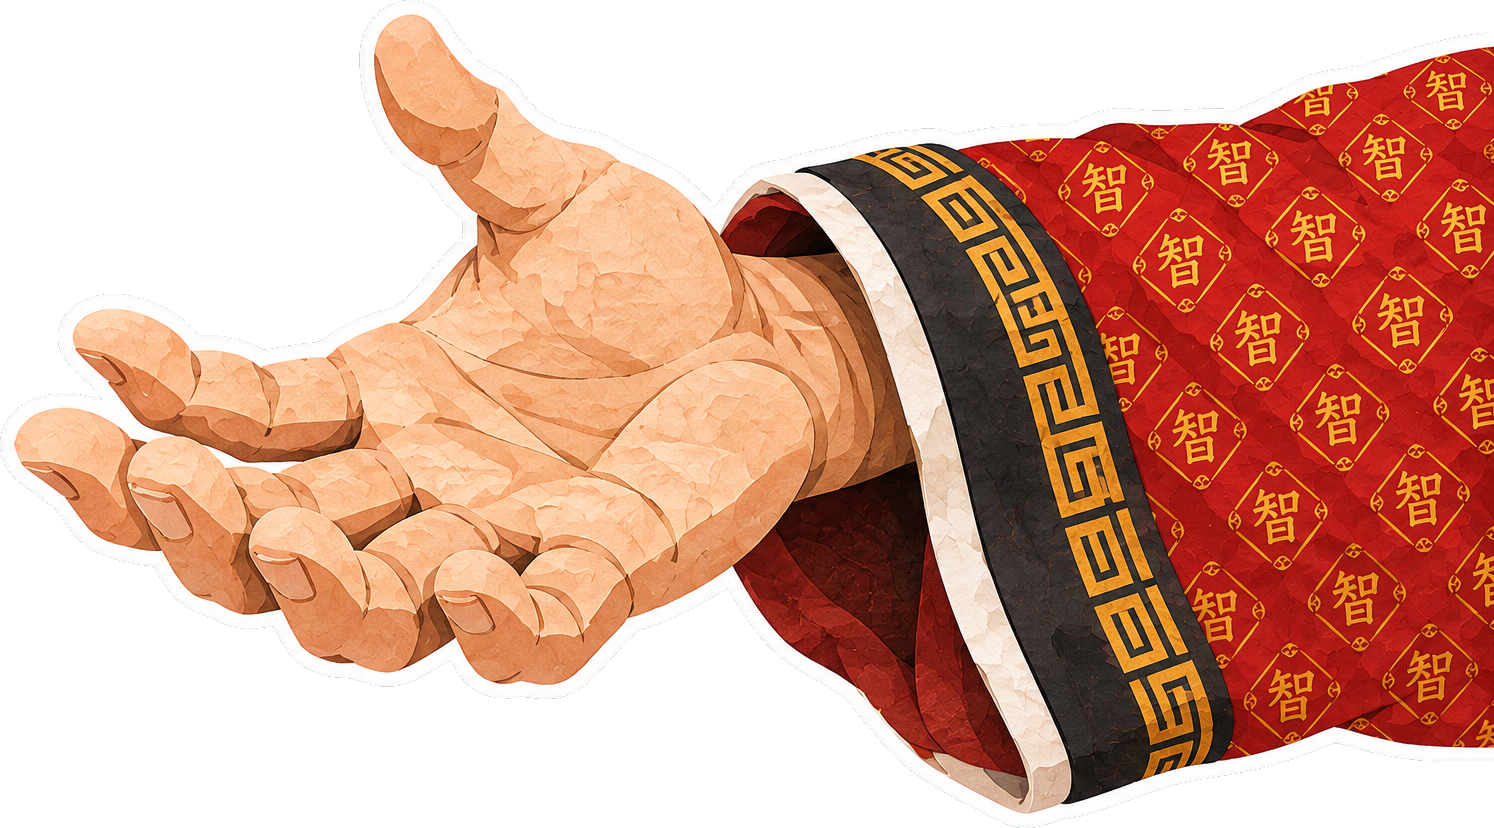
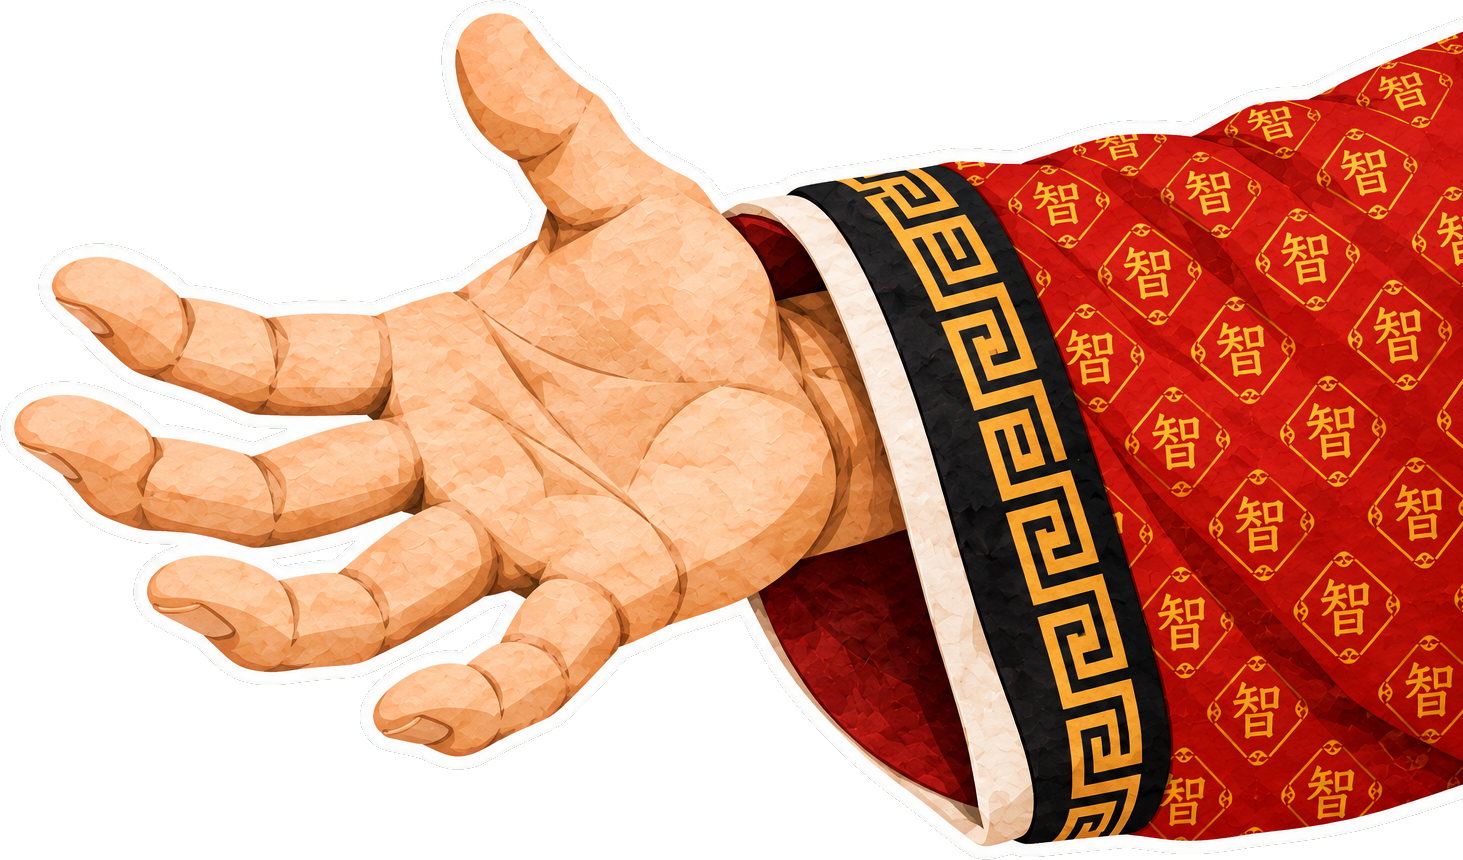
tj01 G assets (PITFALLS R13): brand-sleeve hand redrawn with five fingers; race track redrawn as one continuous loop with the checkered start line across the straight (blue car off track on the grass, driver fine); checked at full size

diff --git a/video/assets/codex_tj01/mk_G.py b/video/assets/codex_tj01/mk_G.py
@@ -212,7 +212,7 @@ P["hand_reach_b"] = hdr(
     "附图 2 是「智伯」的一只大手的旧版画法（手心向上摊开要东西；旧版袖子没有花纹，只参考手的画法、大小和五指的样子）。附图 3 是他的**定妆图**（名牌造型：红袍满印金色「智」字花纹、领口袖口墨黑边加金色回纹）——袖子照它。"
     "请画**一只智伯的大手和宽袖子**（道具，不带身体）：") + f"""
 {STYLE}
-**宽大的袖子，从画面右边伸进来**，伸向**画面左边**：袖子是**赭红色（#8e2b2b）满印金色的「智」字花押 logo**（圆角菱形方块里一个金色「智」字，整齐重复铺满，像奢侈品的满印花纹），**袖口是墨黑边加金色回纹**（黑边上不印 logo），袖口里露出一点白色内衬；袖口里伸出一只**大手**，**手心向上摊开**、**五指张开**（像在伸手要东西，手要画得大、五指清楚、手指不要畸形、不要多指），手背朝下、手心朝上。**只画袖子和手**（袖子从画面右边缘切入，右边是袖子的裁切，不画人的身体和脸），不拿东西。
+**宽大的袖子，从画面右边伸进来**，伸向**画面左边**：袖子是**赭红色（#8e2b2b）满印金色的「智」字花押 logo**（圆角菱形方块里一个金色「智」字，整齐重复铺满，像奢侈品的满印花纹），**袖口是墨黑边加金色回纹**（黑边上不印 logo），袖口里露出一点白色内衬；袖口里伸出一只**大手**，**手心向上摊开**（像在伸手向人要东西），手背朝下、手心朝上。**Exactly five fingers: one thumb and four fingers (index, middle, ring and little finger). 这只手必须正好五根手指：一根拇指加四根手指，数清楚，不能多一根也不能少一根，不要六指、不要四指。**画法：四根手指并排、自然微微弯曲、指尖朝向画面左边，每根手指之间留一条清楚的缝，**手指互相不重叠、不粘连**，粗短一点（Q 版大手）；拇指单独在手的一侧（画面上方）向外张开；手指不要畸形、不要多关节。**只画袖子和手**（袖子从画面右边缘切入，右边是袖子的裁切，不画人的身体和脸），不拿东西。
 **只允许出现「智」这一个字**（汉字，金色，印在袖子上），不许有别的字、字母、数字，不许出现任何真实品牌的标志。
 用你的图片生成工具画：{GREEN}；画布横版 3:2（例如 1536×1024）；「袖子加手」的宽度约 1400 像素、高度约 750 像素；手和袖子完整、外面一圈粗白纸边（袖子右边是切口，不用白边也行）。
 要求：画面里除了袖子上的「智」字，不要出现任何文字、字母或数字
@@ -304,10 +304,11 @@ REFS["bubble_river_city"] = [S, "props/bubble_nickname.png", "props/city_han.png
 P["bubble_race_track"] = hdr(
     "附图 2 是这个系列已经画好的一张想象泡泡里的画（画法、笔触、配色、纸纹都要照它）。请画这一张**横版的宽图**（整张铺满画面，**不是椭圆、没有白边、没有绿底**，像一幅完整的风景画，之后会裁成左右两段使用）：") + f"""
 画风照附图（扁平的手绘纸艺插画、看得见的纸张纤维纹理、每一件东西外面一圈白纸边；不要 3D、不要黏土或塑料质感、不要光滑渐变的立体阴影）。是一个想象泡泡里的画，气氛轻松，给幼儿园到小学的孩子看。
-画面：**一条纸艺赛车跑道**，从左到右展开（赛车都往**右**开）：灰色的跑道、红白相间的路肩、跑道两边是绿色的草地、远处淡淡的蓝天和山，暖色柔和的光线。
-- **左半边**：**起跑线**（黑白格子线横在跑道上）；**一辆纸做的红色高级赛车正冲出起跑线**（流线型、低矮、光亮的红色纸片、大大的车轮，车后面几道白色的速度线）；**车身侧面正中留一条空白的长条**（米白色、圆角，什么都不写，后面会写字）；**车里坐着一个戴头盔的司机，双手握着方向盘**（头盔是红色的，笑眯眯的，很稳）
-- **右半边**：跑道在这里**拐一个弯**，**弯道外面的草地上停着一辆蓝色的小赛车**：它**滑出了跑道、停在草地里**（车头歪着朝草地，**没有撞、没有翻、没有冒烟、没有起火**，只是停在草里，车上的人安然无事、尴尬地挠头也可以）；**车顶上方留出一块空位**（什么都不画，后面叠问号贴纸）；远处跑道尽头有**终点的黑白格子旗**
-- **不画真实品牌的标志、不画车牌、不画任何字母数字**
+**赛道的逻辑必须正确（最重要）**：这是**一整圈连续的环形赛道，全画面只有「一条」路**：一条灰色的路带，从画面左边缘进来，**在左半边是一段笔直的直道**，穿过整个左半边，到右半边**向远处慢慢弯出去**（弯道），消失在远处的山脚。**整张图里只有这一条路，没有任何岔路、丁字路口、十字路口、分叉、第二条路、立交桥、隧道**；路的两边是连续的红白相间路肩、外面是绿色草地。
+画面（赛车都往**右**开）：
+- **左半边（笔直的直道）**：**起跑线是一条黑白格子线，横着铺满整条直道的宽度（从左边路肩到右边路肩），和路的走向垂直**，线画在笔直的路面上；**一辆纸做的红色高级赛车刚刚冲出起跑线**（流线型、低矮、红色纸片、大大的车轮，车后面几道白色的速度线；车头朝右、车轮在路面上，车在路中间）；**车身侧面正中留一条空白的长条**（米白色、圆角，什么都不写，后面会写字）；**车里坐着一个戴红色头盔的司机，双手握着方向盘**，笑眯眯、很稳。**整张图一共只有两辆赛车（这一辆红车和右半边的一辆蓝车），不要画第三辆**
+- **右半边（弯道）**：路在这里向远处拐弯；**弯道外面的草地上停着一辆蓝色的小赛车**：它**滑出了弯道、停在草地里**（车头歪着朝草地，**没有撞、没有翻、没有冒烟、没有起火**，车上的人安然无事、尴尬地挠头）；**车顶上方留出一块空位**（什么都不画，后面叠问号贴纸）；天空里不要画东西
+- 天空、远山、几棵树、白云；**不画任何字、不画真实品牌的标志、不画车牌、不画任何字母数字**
 要求：画面里不要出现任何文字、字母或数字；用你的图片生成工具画：画布是很宽的横版（例如 1774×887，比例 2:1），整张画满。
 {save_line("bubble_race_track")}
 """
@@ -325,6 +326,11 @@ P["bubble_race_driver"] = hdr(
 {save_line("bubble_race_driver")}
 """
 REFS["bubble_race_driver"] = [S, "props/bubble_nickname.png"]
+
+
+for _n, _k in (("hand_reach_b", "2"), ("bubble_race_track", "2"), ("bubble_race_track", "3"), ("bubble_race_track", "4")):   # 候选（同提示词，挑更好的）
+    P[_n + _k] = P[_n].replace(f"{_n}.png", f"{_n}{_k}.png")
+    REFS[_n + _k] = REFS[_n]
 
 
 def abs_refs(n):

diff --git a/video/assets/codex_tj01/split_G.py b/video/assets/codex_tj01/split_G.py
@@ -152,13 +152,13 @@ NOTES = {
     "zhao_dig": ("赵家的人 `zhao_`", "右", "**夜里挖堤的赵家兵**（远景用）：青绿 #2f7d5b 头巾、青绿交领右衽短衣配黑边加白色小三角纹（和赵襄子同款）、深灰裤子、绑腿、草鞋，**全身没有红色、赭黄、黑皮甲**（不是智伯的兵）；弯腰、双手握长柄青铜镐举在身后右肩上方、正要往下挖；3/4；第 37 句；**挖堤用它，不用 folk_dig**（folk_dig 穿智家兵的衣服）"),
     "sold_spear": ("智伯的兵 `sold_`", "右", "智伯的兵（赭黄上衣、黑皮甲、红头巾），拿矛站着（矛竖着，不对人）；从 codex_tj01/pose_crowd.png 左上拆出；第 5 句（「兵马最多」：复制几份排成一排）"),
     "folk_dig": ("晋阳百姓 `folk_`", "右", "扛镐的人，**穿智家兵的衣服**（赭黄上衣、黑皮甲、红头巾），**挖堤不用它，用 zhao_dig**；从 codex_tj01/pose_crowd.png 右上拆出；原本是「赵家这边的人」的设想，颜色不对，只留作备用"),
-    "hand_reach_b": ("道具", "左", "G13：智伯的大手，名牌袖子（赭红底满印金色「智」字的宽袖、袖口墨黑边加金色回纹），从画面右边伸进来，手心向上摊开、五指张开（替掉非名牌的 hand_grab / hand_open）；只有袖子和手；第 14、21 句"),
+    "hand_reach_b": ("道具", "左", "G13：智伯的大手，名牌袖子（赭红底满印金色「智」字的宽袖、袖口墨黑边加金色回纹），从画面右边伸进来，手心向上摊开；**正好 5 根手指（1 拇指 + 4 指，R13 重画，逐根数过）**；只有袖子和手；第 14、21 句"),
     "wave_dragon": ("道具", "右", "G14：一道巨大的卷浪，白、浅蓝、蓝的纸片层层叠出，浪头卷成 Q 版圆滚滚的龙头（圆眼睛、调皮地笑，不画牙、不画凶脸、不画红眼），往右扑，左边拖出长长的水尾；不画人；可以翻转（不是人物）；第 0、37 句"),
     "bubble_xueba_a": ("道具", "正面", "G15：椭圆小画面（想象泡泡里的画，之前）：现代小学教室（蓝白校服、红领巾），大个子男生站在一摞金色奖杯堆成的高塔上、双手叉腰、鼻孔朝天；下面四个老实的同学手拉手站成一排抬头看着他；奖杯上没有字；外面是透明底、边缘一圈白纸边；图里的小孩是现代的，只能放在泡泡里；第 1 句前半"),
     "bubble_xueba_b": ("道具", "正面", "G16：椭圆小画面（泡泡里的画，之后），和 bubble_xueba_a 同教室同构图同人物：奖杯塔「哗啦」倒了一地，大个子坐在奖杯堆里发愣（没受伤），四个同学还手拉手、最前面两人的手刚推过奖杯塔（推倒的是塔不是人），松了口气、不嘲笑；现代小孩，只能放在泡泡里；第 1 句后半"),
     "bubble_elephant": ("道具", "右", "G17：椭圆小画面（泡泡里的画）：草地上一头 Q 版纸艺大象朝右，背上披一块满印金色「智」字的红毯子，鼻子高高扬起、一脸得意；象鼻尖上站着一只小黑蚂蚁、双手叉腰、一点也不怕；第 11 句（「我是大象！」）"),
     "bubble_river_city": ("道具", "正面", "G18：椭圆小画面（泡泡里的画）：一座夯土小城（方门洞加木过梁、平缓灰瓦门楼、屋檐平直），城边一条大河，河水涨起来漫到城墙脚、城墙下半截泡在水里；城头左右留了空地方（家族小旗由合成器叠 flag_wei / flag_han）；不画人、不标河名；第 31、32 句"),
-    "bubble_race_track": ("道具", "右", "G19：**整幅不透明的横版宽图**（不是椭圆、没有绿底和白边，两段裁切用）：纸艺赛车跑道，**左半**红色高级赛车冲出起跑线（车身侧面留一条空白长条，合成器写「才能」），司机戴头盔双手握方向盘；**右半**弯道外一辆蓝色小赛车滑出跑道停在草地上（没撞没翻没冒烟），车顶上方留空放问号贴纸，远处终点格子旗；赛车往右开；第 44（裁左半）、47（摇到右半）句"),
+    "bubble_race_track": ("道具", "右", "G19（R13 重画）：整幅不透明的横版宽图，全图只有一条连续环形赛道，左半笔直直道上黑白格起跑线垂直横跨路面、红色赛车刚冲出，右半弯道、蓝色小赛车滑出停在外侧草地；第 44、47 句"),
     "bubble_race_driver": ("道具", "正面", "G20：椭圆小画面（泡泡里的画）：赛车驾驶座特写，戴红色头盔的司机（成年人、笑眯眯、很稳）双手稳稳握住方向盘，胸口一块空白的圆角方形布标（合成器写「人品和尊重」），背景速度线；第 45 句"),
 }
 

diff --git a/video/assets/REGISTRY.md b/video/assets/REGISTRY.md
@@ -319,13 +319,13 @@ tj01 的新角色（智、赵、韩、魏各家的人物）画完以后，在这
 | `props/char_cai.png` | 道具 | 正面 | 340×337 | 无 | 定稿 | 剪纸风大字「才」（暖红色）（原图 340×337，屏幕显示不超过 442×438） | tj01 |
 | `props/char_de.png` | 道具 | 正面 | 357×331 | 无 | 定稿 | 剪纸风大字「德」（金黄色）（原图 357×331，屏幕显示不超过 464×430） | tj01 |
 | `props/teaser_rain.png` | 道具 | 正面 | 1024×1536 | 无 | 定稿 | 下集预告主图（竖版 1024×1536，整张不透明）：下雨的树林边，只有雨、水洼、山雾和挂在树上的猎具（木弓、箭袋、捕兽网、木叉）；没有人（不画魏文侯）（原图 1024×1536，屏幕显示不超过 1331×1996） | tj01 |
-| `props/hand_reach_b.png` | 道具 | 左 | 1494×828 | 无 | 定稿 | G13：智伯的大手，名牌袖子（赭红底满印金色「智」字的宽袖、袖口墨黑边加金色回纹），从画面右边伸进来，手心向上摊开、五指张开（替掉非名牌的 hand_grab / hand_open）；只有袖子和手；第 14、21 句（原图 1494×828，屏幕显示不超过 1942×1076） | tj01 |
+| `props/hand_reach_b.png` | 道具 | 左 | 1463×860 | 无 | 定稿 | R13 重画（09-30）：**正好 5 根手指（1 拇指 + 4 指，按原图大小逐根数过）**；G13：智伯的大手，名牌袖子（赭红底满印金色「智」字的宽袖、袖口墨黑边加金色回纹），从画面右边伸进来，手心向上摊开、五指张开（替掉非名牌的 hand_grab / hand_open）；只有袖子和手；第 14、21 句（原图 1463×860，屏幕显示不超过 1901×1118） | tj01 |
 | `props/wave_dragon.png` | 道具 | 右 | 1413×949 | 无 | 定稿 | G14：一道巨大的卷浪，白、浅蓝、蓝的纸片层层叠出，浪头卷成 Q 版圆滚滚的龙头（圆眼睛、调皮地笑，不画牙、不画凶脸、不画红眼），往右扑，左边拖出长长的水尾；不画人；可以翻转（不是人物）；第 0、37 句（原图 1413×949，屏幕显示不超过 1836×1233） | tj01 |
 | `props/bubble_xueba_a.png` | 道具 | 正面 | 1528×1013 | 无 | 定稿 | G15：椭圆小画面（想象泡泡里的画，之前）：现代小学教室（蓝白校服、红领巾），大个子男生站在一摞金色奖杯堆成的高塔上、双手叉腰、鼻孔朝天；下面四个老实的同学手拉手站成一排抬头看着他；奖杯上没有字；外面是透明底、边缘一圈白纸边；图里的小孩是现代的，只能放在泡泡里；第 1 句前半（原图 1528×1013，屏幕显示不超过 1986×1316） | tj01 |
 | `props/bubble_xueba_b.png` | 道具 | 正面 | 1528×1013 | 无 | 定稿 | G16：椭圆小画面（泡泡里的画，之后），和 bubble_xueba_a 同教室同构图同人物：奖杯塔「哗啦」倒了一地，大个子坐在奖杯堆里发愣（没受伤），四个同学还手拉手、最前面两人的手刚推过奖杯塔（推倒的是塔不是人），松了口气、不嘲笑；现代小孩，只能放在泡泡里；第 1 句后半（原图 1528×1013，屏幕显示不超过 1986×1316） | tj01 |
 | `props/bubble_elephant.png` | 道具 | 右 | 1528×1007 | 无 | 定稿 | G17：椭圆小画面（泡泡里的画）：草地上一头 Q 版纸艺大象朝右，背上披一块满印金色「智」字的红毯子，鼻子高高扬起、一脸得意；象鼻尖上站着一只小黑蚂蚁、双手叉腰、一点也不怕；第 11 句（「我是大象！」）（原图 1528×1007，屏幕显示不超过 1986×1309） | tj01 |
 | `props/bubble_river_city.png` | 道具 | 正面 | 1528×1007 | 无 | 定稿 | G18：椭圆小画面（泡泡里的画）：一座夯土小城（方门洞加木过梁、平缓灰瓦门楼、屋檐平直），城边一条大河，河水涨起来漫到城墙脚、城墙下半截泡在水里；城头左右留了空地方（家族小旗由合成器叠 flag_wei / flag_han）；不画人、不标河名；第 31、32 句（原图 1528×1007，屏幕显示不超过 1986×1309） | tj01 |
-| `props/bubble_race_track.png` | 道具 | 右 | 1774×887 | 无 | 定稿 | G19：**整幅不透明的横版宽图**（不是椭圆、没有绿底和白边，两段裁切用）：纸艺赛车跑道，**左半**红色高级赛车冲出起跑线（车身侧面留一条空白长条，合成器写「才能」），司机戴头盔双手握方向盘；**右半**弯道外一辆蓝色小赛车滑出跑道停在草地上（没撞没翻没冒烟），车顶上方留空放问号贴纸，远处终点格子旗；赛车往右开；第 44（裁左半）、47（摇到右半）句（原图 1774×887，屏幕显示不超过 2306×1153） | tj01 |
+| `props/bubble_race_track.png` | 道具 | 右 | 1774×887 | 无 | 定稿 | G19（R13 重画 09-30）：**整幅不透明的横版宽图**（不是椭圆、没有绿底和白边，两段裁切用）：纸艺赛车跑道，**全图只有一条连续的环形赛道**（没有岔路、丁字路口）：**左半是笔直的直道，黑白格起跑线横跨整条直道（垂直于路）**，红色高级赛车刚冲出起跑线（车身侧面留一条空白长条，合成器写「才能」，司机戴红头盔双手握方向盘）；**右半**直道拐成弯道，蓝色小赛车滑出弯道停在外侧草地上（没撞没翻没冒烟，司机尴尬地摸头盔），车顶上方是天空空位（放问号贴纸）；全图只有两辆车；赛车往右开；第 44（裁左半）、47（摇到右半）句（原图 1774×887，屏幕显示不超过 2306×1153） | tj01 |
 | `props/bubble_race_driver.png` | 道具 | 正面 | 1528×1008 | 无 | 定稿 | G20：椭圆小画面（泡泡里的画）：赛车驾驶座特写，戴红色头盔的司机（成年人、笑眯眯、很稳）双手稳稳握住方向盘，胸口一块空白的圆角方形布标（合成器写「人品和尊重」），背景速度线；第 45 句（原图 1528×1008，屏幕显示不超过 1986×1310） | tj01 |
 
 ### 2.3 纸偶部件（`rig/`）
